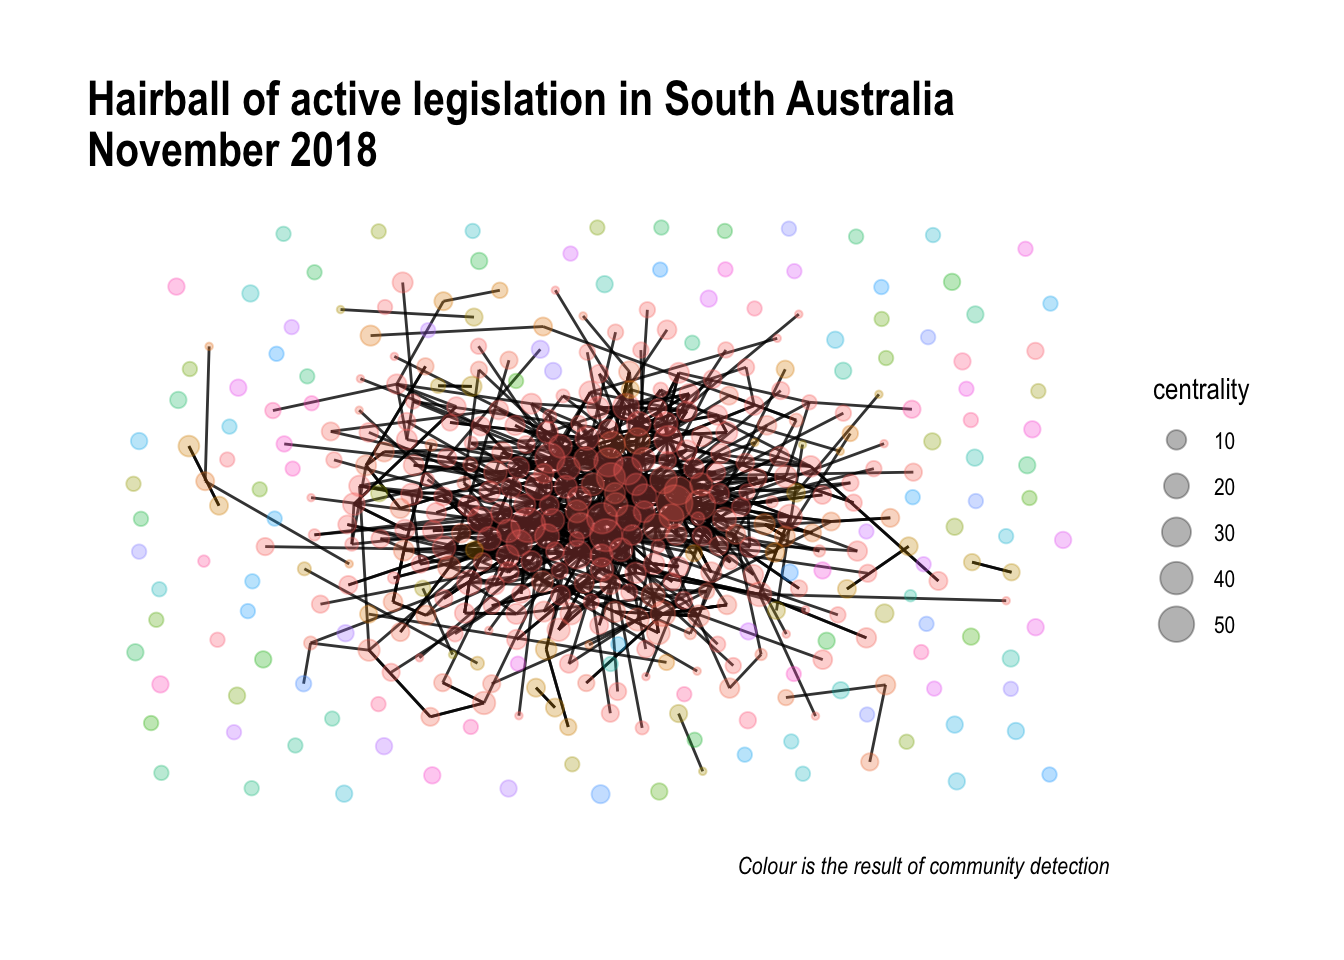
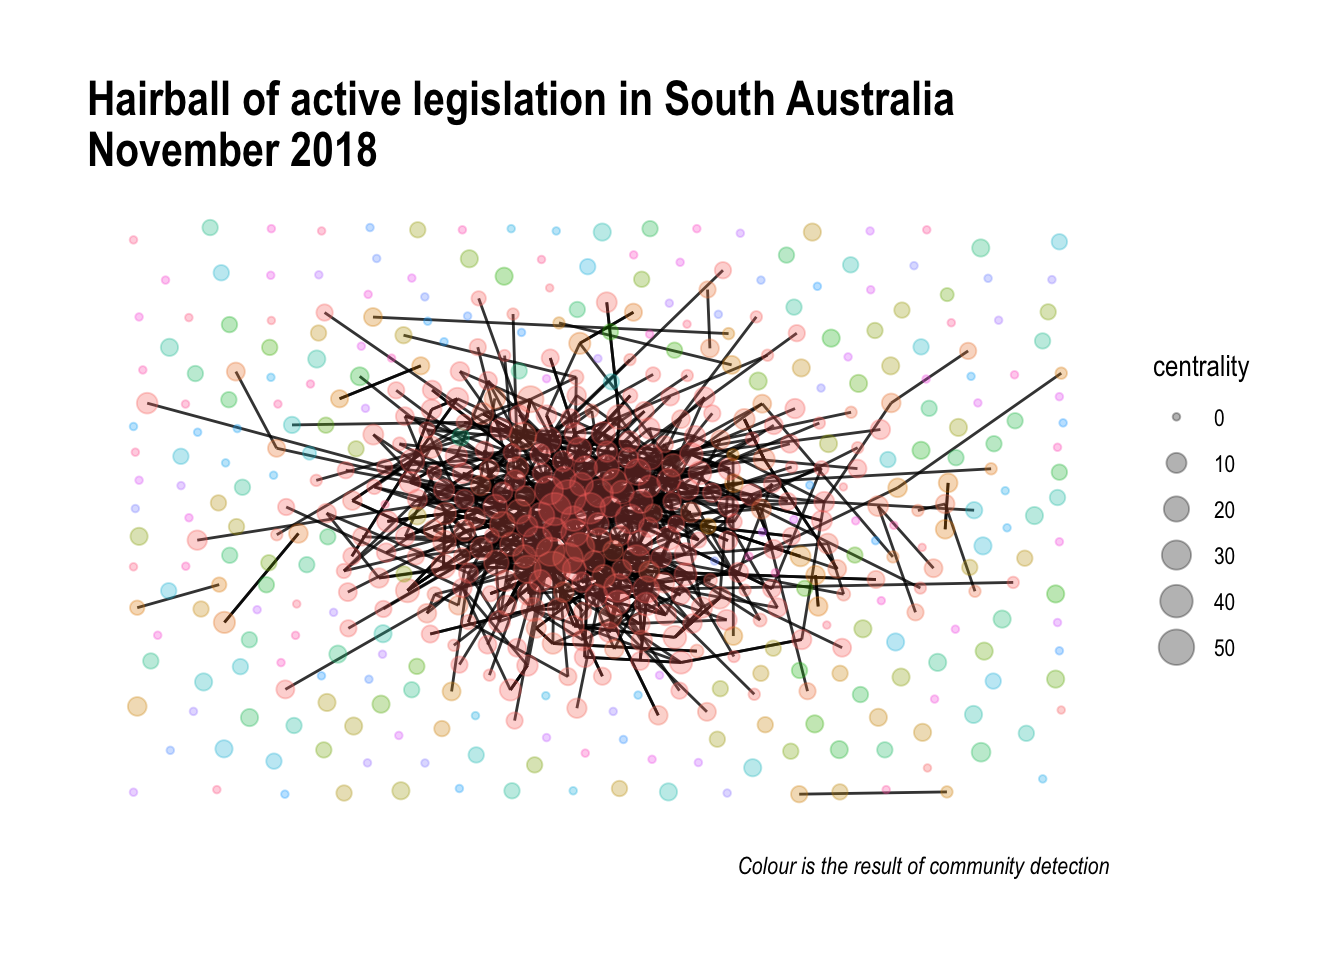
Fixed the problem with unnest

diff --git a/public/post/2018/11/01/legislative-network/index.html b/public/post/2018/11/01/legislative-network/index.html
@@ -96,8 +96,8 @@ acts_content &lt;- bind_cols(acts, content)</code></pre>
 <pre class="r"><code>acts_mentions &lt;- acts_content %&gt;%
   mutate(content = str_replace_all(content, &quot;\\s+&quot;, &quot; &quot;)) %&gt;% 
   mutate(to = str_extract_all(content, paste(as.character(from), collapse=&quot;|&quot;))) %&gt;%
-  unnest(to) %&gt;%
-  select(from, to)</code></pre>
+  select(from, to) %&gt;%
+  unnest(to)</code></pre>
 </div>
 <div id="make-the-graph" class="section level2">
 <h2>Make the graph</h2>
@@ -106,7 +106,10 @@ acts_content &lt;- bind_cols(acts, content)</code></pre>
 <img src="/post/2018-11-01_files/laptop_stickers.JPG" style="width:30.0%" />
 </p>
 <p>But I haven’t really put the packages to good use. So, this was an opportunity.</p>
-<pre class="r"><code>acts_graph &lt;- as_tbl_graph(acts_mentions, directed = FALSE) %&gt;% 
+<pre class="r"><code>nodes &lt;- acts$from %&gt;%
+  data_frame()
+
+acts_graph &lt;- tbl_graph(nodes = nodes, edges = acts_mentions, directed = FALSE) %&gt;% 
     mutate(community = as.factor(group_walktrap())) %&gt;%
   mutate(centrality = centrality_degree())
 
@@ -133,6 +136,7 @@ ggplot(data = acts_metrics, aes(x = centrality)) +
 <p>So, there are way more acts with few connections than there are acts with many connection. Its not quite on the scale of a power law though.</p>
 <p>Something that would be interesting to check would be the relationship between the centrality of the acts and the year the act was assented to by the Governor.</p>
 <pre class="r"><code>acts_metrics &lt;- acts_metrics %&gt;%
+  rename(name = &quot;.&quot;) %&gt;%
   mutate(year = str_sub(name, -4, -1)) %&gt;%
   mutate(year = as.numeric(year))
 

diff --git a/content/post/2018-11-01.html b/content/post/2018-11-01.html
@@ -75,8 +75,8 @@ acts_content &lt;- bind_cols(acts, content)</code></pre>
 <pre class="r"><code>acts_mentions &lt;- acts_content %&gt;%
   mutate(content = str_replace_all(content, &quot;\\s+&quot;, &quot; &quot;)) %&gt;% 
   mutate(to = str_extract_all(content, paste(as.character(from), collapse=&quot;|&quot;))) %&gt;%
-  unnest(to) %&gt;%
-  select(from, to)</code></pre>
+  select(from, to) %&gt;%
+  unnest(to)</code></pre>
 </div>
 <div id="make-the-graph" class="section level2">
 <h2>Make the graph</h2>
@@ -85,7 +85,10 @@ acts_content &lt;- bind_cols(acts, content)</code></pre>
 <img src="/post/2018-11-01_files/laptop_stickers.JPG" style="width:30.0%" />
 </p>
 <p>But I haven’t really put the packages to good use. So, this was an opportunity.</p>
-<pre class="r"><code>acts_graph &lt;- as_tbl_graph(acts_mentions, directed = FALSE) %&gt;% 
+<pre class="r"><code>nodes &lt;- acts$from %&gt;%
+  data_frame()
+
+acts_graph &lt;- tbl_graph(nodes = nodes, edges = acts_mentions, directed = FALSE) %&gt;% 
     mutate(community = as.factor(group_walktrap())) %&gt;%
   mutate(centrality = centrality_degree())
 
@@ -112,6 +115,7 @@ ggplot(data = acts_metrics, aes(x = centrality)) +
 <p>So, there are way more acts with few connections than there are acts with many connection. Its not quite on the scale of a power law though.</p>
 <p>Something that would be interesting to check would be the relationship between the centrality of the acts and the year the act was assented to by the Governor.</p>
 <pre class="r"><code>acts_metrics &lt;- acts_metrics %&gt;%
+  rename(name = &quot;.&quot;) %&gt;%
   mutate(year = str_sub(name, -4, -1)) %&gt;%
   mutate(year = as.numeric(year))
 
